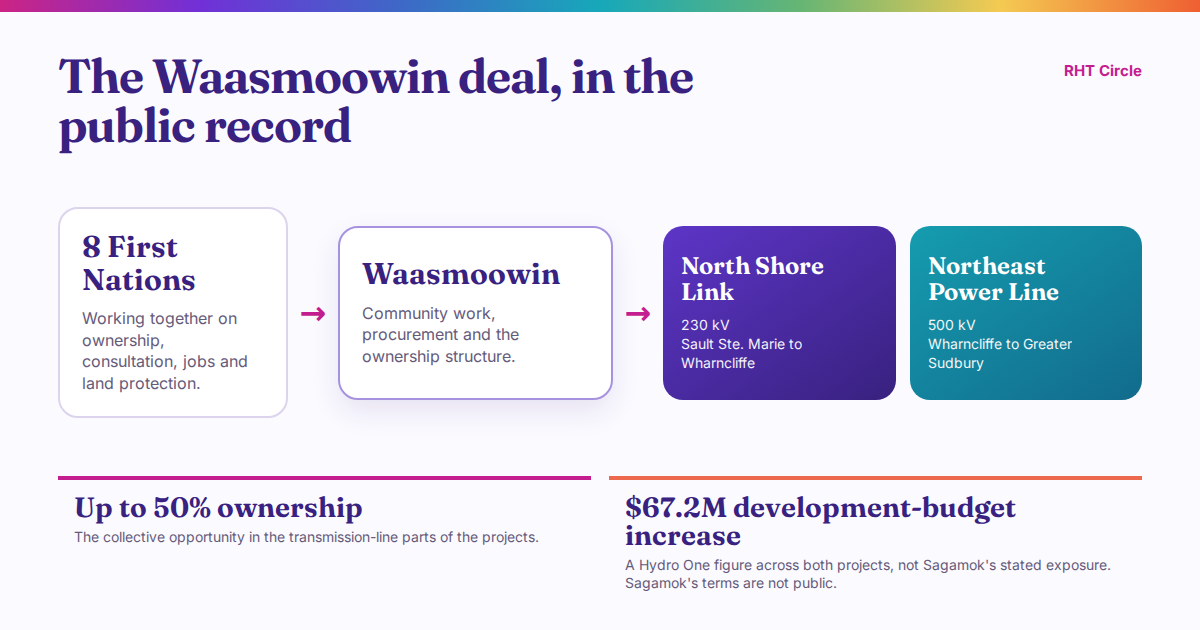
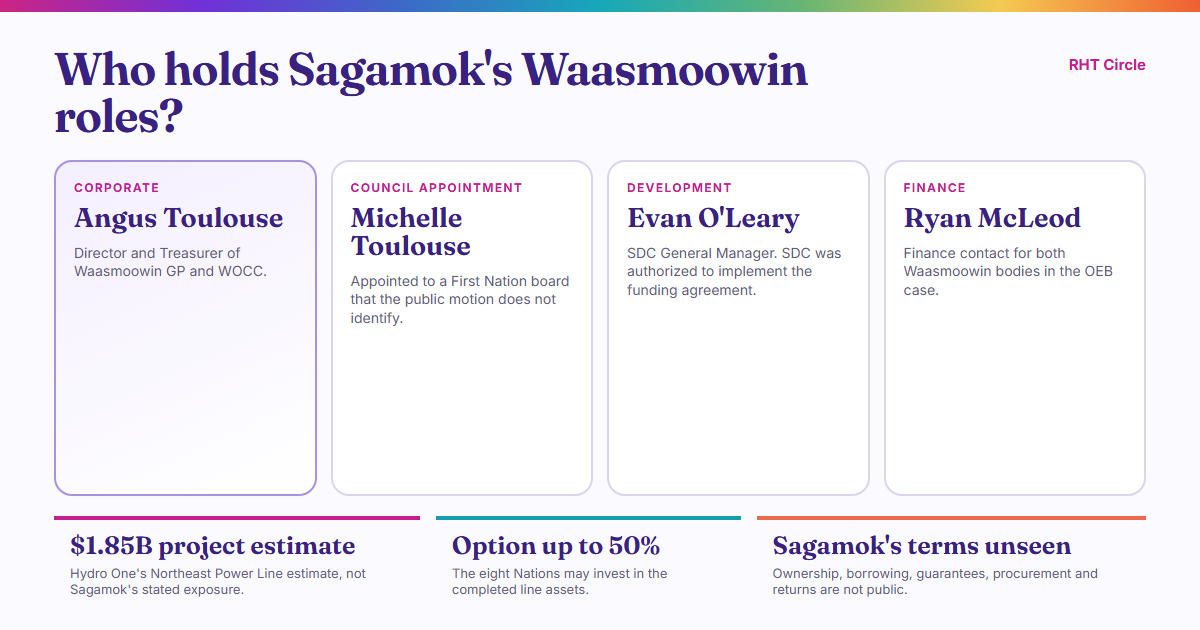
Publish sourced Waasmoowin role map

Changed region(s): [[0.0308, 0.0603, 0.9558, 0.9651], [0.8633, 0.0905, 0.9558, 0.1206]]

diff --git a/scripts/og-template-waasmoowin.html b/scripts/og-template-waasmoowin.html
@@ -12,7 +12,6 @@
       --ink: #201936;
       --muted: #655b7a;
       --indigo: #38217f;
-      --violet: #5d35c7;
       --magenta: #c41d8f;
       --cyan: #159caf;
       --coral: #ed694e;
@@ -28,66 +27,65 @@
       font-family: Inter, system-ui, sans-serif;
     }
     .rainbow { height: 12px; background: var(--rainbow); }
-    main { height: 618px; padding: 40px 58px 38px; display: grid; grid-template-rows: auto 1fr auto; gap: 24px; }
+    main { height: 618px; padding: 34px 54px 32px; display: grid; grid-template-rows: auto 1fr auto; gap: 20px; }
     header { display: flex; align-items: start; justify-content: space-between; gap: 30px; }
-    h1 { font: 650 48px/1.02 Fraunces, Georgia, serif; color: var(--indigo); max-width: 760px; letter-spacing: -1px; }
+    h1 { font: 650 46px/1.02 Fraunces, Georgia, serif; color: var(--indigo); max-width: 850px; letter-spacing: -1px; }
     .brand { color: var(--magenta); font-size: 15px; font-weight: 700; padding-top: 9px; }
-    .flow { display: grid; grid-template-columns: 230px 50px 275px 50px 1fr; align-items: center; }
-    .box { min-height: 174px; border: 2px solid var(--line); border-radius: 20px; padding: 22px; background: white; display: flex; flex-direction: column; justify-content: center; }
-    .box strong { font: 650 30px/1.08 Fraunces, Georgia, serif; color: var(--indigo); }
-    .box span { margin-top: 12px; color: var(--muted); font-size: 16px; line-height: 1.35; }
-    .box--centre { border-color: #a792df; box-shadow: 0 12px 28px rgba(56, 33, 127, 0.10); }
-    .projects { display: grid; grid-template-columns: 1fr 1fr; gap: 14px; }
-    .project { min-height: 174px; border-radius: 20px; padding: 22px 18px; color: white; display: flex; flex-direction: column; justify-content: center; }
-    .project:first-child { background: linear-gradient(145deg, var(--violet), var(--indigo)); }
-    .project:last-child { background: linear-gradient(145deg, var(--cyan), #126b8c); }
-    .project strong { font: 650 24px/1.1 Fraunces, Georgia, serif; }
-    .project span { margin-top: 10px; font-size: 14px; line-height: 1.35; opacity: .94; }
-    .arrow { color: var(--magenta); font-size: 32px; text-align: center; font-weight: 700; }
-    footer { display: grid; grid-template-columns: 1fr 1fr; gap: 18px; }
+    .roles { display: grid; grid-template-columns: repeat(4, 1fr); gap: 14px; align-items: stretch; }
+    .role { border: 2px solid var(--line); border-radius: 18px; padding: 20px 18px; background: white; display: flex; flex-direction: column; }
+    .role:first-child { border-color: #a792df; background: linear-gradient(155deg, #f4efff, white); }
+    .role-kicker { color: var(--magenta); font-size: 12px; line-height: 1; font-weight: 700; letter-spacing: 1.3px; text-transform: uppercase; }
+    .role strong { margin-top: 10px; font: 650 27px/1.04 Fraunces, Georgia, serif; color: var(--indigo); }
+    .role span { margin-top: 12px; color: var(--muted); font-size: 14px; line-height: 1.32; }
+    footer { display: grid; grid-template-columns: 1.08fr .9fr 1.15fr; gap: 16px; }
     .fact { border-top: 4px solid var(--magenta); padding: 13px 16px 0; }
+    .fact:nth-child(2) { border-color: var(--cyan); }
     .fact:last-child { border-color: var(--coral); }
-    .fact strong { font: 650 28px/1 Fraunces, Georgia, serif; color: var(--indigo); }
-    .fact p { margin-top: 7px; color: var(--muted); font-size: 14px; line-height: 1.3; }
+    .fact strong { font: 650 25px/1 Fraunces, Georgia, serif; color: var(--indigo); }
+    .fact p { margin-top: 7px; color: var(--muted); font-size: 13px; line-height: 1.28; }
   </style>
 </head>
 <body>
   <div class="rainbow"></div>
   <main>
     <header>
-      <h1>The Waasmoowin deal, in the public record</h1>
+      <h1>Who holds Sagamok's Waasmoowin roles?</h1>
       <div class="brand">RHT Circle</div>
     </header>
-    <section class="flow" aria-label="Eight Nations working through Waasmoowin on two transmission lines">
-      <div class="box">
-        <strong>8 First Nations</strong>
-        <span>Working together on ownership, consultation, jobs and land protection.</span>
+    <section class="roles" aria-label="Four named Sagamok role lanes in the Waasmoowin project">
+      <div class="role">
+        <div class="role-kicker">Corporate</div>
+        <strong>Angus Toulouse</strong>
+        <span>Director and Treasurer of Waasmoowin GP and WOCC.</span>
       </div>
-      <div class="arrow">→</div>
-      <div class="box box--centre">
-        <strong>Waasmoowin</strong>
-        <span>Community work, procurement and the ownership structure.</span>
+      <div class="role">
+        <div class="role-kicker">Council appointment</div>
+        <strong>Michelle Toulouse</strong>
+        <span>Appointed to a First Nation board that the public motion does not identify.</span>
       </div>
-      <div class="arrow">→</div>
-      <div class="projects">
-        <div class="project">
-          <strong>North Shore Link</strong>
-          <span>230 kV<br>Sault Ste. Marie to Wharncliffe</span>
-        </div>
-        <div class="project">
-          <strong>Northeast Power Line</strong>
-          <span>500 kV<br>Wharncliffe to Greater Sudbury</span>
-        </div>
+      <div class="role">
+        <div class="role-kicker">Development</div>
+        <strong>Evan O'Leary</strong>
+        <span>SDC General Manager. SDC was authorized to implement the funding agreement.</span>
+      </div>
+      <div class="role">
+        <div class="role-kicker">Finance</div>
+        <strong>Ryan McLeod</strong>
+        <span>Finance contact for both Waasmoowin bodies in the OEB case.</span>
       </div>
     </section>
     <footer>
       <div class="fact">
-        <strong>Up to 50% ownership</strong>
-        <p>The collective opportunity in the transmission-line parts of the projects.</p>
+        <strong>$1.85B project estimate</strong>
+        <p>Hydro One's Northeast Power Line estimate, not Sagamok's stated exposure.</p>
       </div>
       <div class="fact">
-        <strong>$67.2M development-budget increase</strong>
-        <p>A Hydro One figure across both projects, not Sagamok's stated exposure. Sagamok's terms are not public.</p>
+        <strong>Option up to 50%</strong>
+        <p>The eight Nations may invest in the completed line assets.</p>
+      </div>
+      <div class="fact">
+        <strong>Sagamok's terms unseen</strong>
+        <p>Ownership, borrowing, guarantees, procurement and returns are not public.</p>
       </div>
     </footer>
   </main>

diff --git a/src/Cms/ArticleSeedData.php b/src/Cms/ArticleSeedData.php
@@ -8,7 +8,8 @@ namespace App\Cms;
  * One-time bootstrap metadata for managed RHT Circle articles.
  *
  * The long-form HTML is read from resources/content/article-seeds/*.html.twig.
- * Once a slug exists in the CMS, the seeder never updates it.
+ * Once a slug exists in the CMS, the seeder leaves it untouched unless the
+ * slug is explicitly named for a controlled publication or metadata refresh.
  */
 final class ArticleSeedData
 {
@@ -42,6 +43,31 @@ final class ArticleSeedData
                 'hero_caption' => 'The Trespass draft is already written. The replacement Membership Law draft has not been released.',
                 'promote' => true,
                 'sticky' => true,
+            ]),
+            self::withBlocks($projectRoot, [
+                'slug' => 'waasmoowin-deal-public-record',
+                'title' => "Who holds Sagamok's Waasmoowin roles?",
+                'community_slug' => 'sagamok',
+                'kicker' => 'Analysis | Sagamok',
+                'deck' => 'Waasmoowin puts eight First Nations into two Hydro One transmission projects. Four Sagamok role lanes are visible. The Nation\'s terms are not.',
+                'summary' => 'What Waasmoowin is, who carries Sagamok\'s work and which ownership, borrowing and procurement terms remain unseen.',
+                'author' => 'Russell Jones',
+                'date_display' => 'July 27, 2026',
+                'date_iso' => '2026-07-27',
+                'section' => 'RHT Circle analysis',
+                'action_label' => 'Read the analysis',
+                'og_description' => 'What Waasmoowin is, who carries Sagamok\'s work and which ownership, borrowing and procurement terms remain unseen.',
+                'social_image' => 'https://rhtcircle.ca/images/news/waasmoowin/waasmoowin-public-record.png',
+                'social_image_alt' => 'Role map identifying Angus Toulouse, Michelle Toulouse, Evan O\'Leary and Ryan McLeod in Sagamok\'s Waasmoowin work.',
+                'social_image_width' => 1200,
+                'social_image_height' => 630,
+                'hero_src' => '/images/news/waasmoowin/waasmoowin-public-record.png',
+                'hero_width' => 1200,
+                'hero_height' => 630,
+                'hero_alt' => 'Role map identifying Angus Toulouse, Michelle Toulouse, Evan O\'Leary and Ryan McLeod in Sagamok\'s Waasmoowin work.',
+                'hero_caption' => 'The public record identifies four Sagamok role lanes. The five SDC directors provide separate corporate oversight.',
+                'promote' => false,
+                'sticky' => false,
             ]),
             self::withBlocks($projectRoot, [
                 'slug' => 'inside-sagamoks-gr-truss-deal',
@@ -102,6 +128,16 @@ final class ArticleSeedData
      * @return list<string>
      */
     public static function unpublishedSlugs(): array
+    {
+        return [];
+    }
+
+    /**
+     * Existing records intentionally republished from their reviewed source.
+     *
+     * @return list<string>
+     */
+    public static function publicationRefreshSlugs(): array
     {
         return ['waasmoowin-deal-public-record'];
     }

diff --git a/src/Cms/ArticleSeeder.php b/src/Cms/ArticleSeeder.php
@@ -11,8 +11,9 @@ use Waaseyaa\Node\NodeType;
 /**
  * Creates the article bundle and missing migrated articles.
  *
- * Existing slugs are deliberately left untouched. CMS edits and revisions are
- * authoritative after the initial conversion.
+ * Existing slugs are deliberately left untouched unless ArticleSeedData names
+ * one for a controlled publication or metadata refresh. CMS edits and
+ * revisions remain authoritative for every other article.
  */
 final class ArticleSeeder
 {
@@ -23,7 +24,7 @@ final class ArticleSeeder
     ) {}
 
     /**
-     * @return array{created: int, skipped: int, unpublished: int, refreshed: int}
+     * @return array{created: int, skipped: int, unpublished: int, published: int, refreshed: int}
      */
     public function seed(): array
     {
@@ -65,6 +66,40 @@ final class ArticleSeeder
             $node->setRevisionLog('Unpublished by editorial direction.');
             $this->nodes->save($node);
             $unpublished++;
+        }
+
+        $published = 0;
+        foreach (ArticleSeedData::publicationRefreshSlugs() as $slug) {
+            $node = $existing[$slug] ?? null;
+            $article = $articlesBySlug[$slug] ?? null;
+            if ($node === null || $article === null) {
+                continue;
+            }
+
+            $changed = false;
+            foreach ($article as $field => $value) {
+                if ($node->get($field) === $value) {
+                    continue;
+                }
+                $node->set($field, $value);
+                $changed = true;
+            }
+
+            $unpublishedRows = $this->nodes->findBy([
+                'type' => ArticleFields::BUNDLE,
+                'slug' => $slug,
+                'status' => false,
+            ], limit: 1);
+            if (isset($unpublishedRows[0])) {
+                $node->set('status', true);
+                $changed = true;
+            }
+
+            if ($changed) {
+                $node->setRevisionLog('Republished after editorial review and source update.');
+                $this->nodes->save($node);
+                $published++;
+            }
         }
 
         $refreshed = 0;
@@ -123,6 +158,7 @@ final class ArticleSeeder
             'created' => $created,
             'skipped' => $skipped,
             'unpublished' => $unpublished,
+            'published' => $published,
             'refreshed' => $refreshed,
         ];
     }

diff --git a/tests/Unit/Content/NewsFeedTest.php b/tests/Unit/Content/NewsFeedTest.php
@@ -76,19 +76,20 @@ final class NewsFeedTest extends TestCase
         );
 
         self::assertSame(['start-here', 'follow-the-record', 'member-tools'], array_column($groups, 'id'));
-        self::assertSame(19, array_sum(array_map(
+        self::assertSame(20, array_sum(array_map(
             static fn (array $group): int => count($group['cards']),
             $groups,
         )));
     }
 
-    public function testPublicationSeedsReplaceUnpublishedWaasmoowinArticleWithWindigoKaanCommentary(): void
+    public function testPublicationSeedsTrackPublishedAndRefreshedArticles(): void
     {
         $seeds = ArticleSeedData::all(\dirname(__DIR__, 3));
 
         self::assertContains('aging-well-starts-before-long-term-care', array_column($seeds, 'slug'));
-        self::assertNotContains('waasmoowin-deal-public-record', array_column($seeds, 'slug'));
-        self::assertContains('waasmoowin-deal-public-record', ArticleSeedData::unpublishedSlugs());
+        self::assertContains('waasmoowin-deal-public-record', array_column($seeds, 'slug'));
+        self::assertNotContains('waasmoowin-deal-public-record', ArticleSeedData::unpublishedSlugs());
+        self::assertContains('waasmoowin-deal-public-record', ArticleSeedData::publicationRefreshSlugs());
         self::assertContains('aging-well-starts-before-long-term-care', ArticleSeedData::metadataRefreshSlugs());
     }
 }

diff --git a/src/Content/LandProjects.php b/src/Content/LandProjects.php
@@ -135,6 +135,7 @@ HTML,
 <p>These are Hydro One development budgets. They are not the total project costs, the price of the First Nations' ownership interests or Sagamok's stated exposure. The signed financing and cost-sharing agreements are needed to show whether any part of the increase can reach the partner Nations.</p>
 <h3>What members still need</h3>
 <p>The public record does not show how much each Nation may borrow or contribute, the security for that money, how cost increases are divided, how jobs and contracts are allocated, or how ownership income will reach members. Those answers belong in the signed Cooperation and Support Agreement, capacity-funding agreement, partnership agreements, financing terms and procurement rules.</p>
+<p><a href="/news/waasmoowin-deal-public-record">Read the full analysis of Sagamok's Waasmoowin roles and the records that remain unavailable.</a></p>
 HTML,
                 'caveat' => 'Capacities, costs and the construction timeline are point-in-time public facts. The reported development budgets are Hydro One figures, not Sagamok liabilities. The dollar amount and financing terms of each Nation\'s stake are not public.',
                 'related' => [

diff --git a/src/Content/CommunityHub.php b/src/Content/CommunityHub.php
@@ -129,6 +129,14 @@ final class CommunityHub
             ],
             [
                 'feature' => true,
+                'tag' => 'RHT Circle analysis',
+                'title' => 'Who holds Sagamok\'s Waasmoowin roles?',
+                'desc' => 'The public record identifies four Sagamok role lanes. The Nation\'s ownership, borrowing, procurement and return terms remain unseen.',
+                'go' => 'Read the analysis',
+                'href' => '/news/waasmoowin-deal-public-record',
+            ],
+            [
+                'feature' => true,
                 'tag' => 'RHT Circle investigation',
                 'title' => 'Inside Sagamok\'s GR Truss deal',
                 'desc' => 'A $100 purchase, $900,000 in Council approvals and one unanswered repayment question.',

diff --git a/src/Provider/CmsContentServiceProvider.php b/src/Provider/CmsContentServiceProvider.php
@@ -142,10 +142,11 @@ final class CmsContentServiceProvider extends ServiceProvider implements Provide
                     $this->projectRoot,
                 )->seed();
                 $io->writeln(sprintf(
-                    'article: %d created; %d existing CMS records left unchanged; %d unpublished; %d metadata refreshed.',
+                    'article: %d created; %d existing CMS records left unchanged; %d unpublished; %d publication refreshed; %d metadata refreshed.',
                     $result['created'],
                     $result['skipped'],
                     $result['unpublished'],
+                    $result['published'],
                     $result['refreshed'],
                 ));
 

diff --git a/tests/Unit/Rendering/SiteRendererTest.php b/tests/Unit/Rendering/SiteRendererTest.php
@@ -110,7 +110,7 @@ final class SiteRendererTest extends TestCase
         self::assertStringContainsString('id="start-here"', $html);
         self::assertStringContainsString('id="follow-the-record"', $html);
         self::assertStringContainsString('id="member-tools"', $html);
-        self::assertSame(19, substr_count($html, '<a class="tile-card'));
+        self::assertSame(20, substr_count($html, '<a class="tile-card'));
         self::assertStringContainsString('Back to the Sagamok community page', $html);
         self::assertMatchesRegularExpression(
             '~<main id="main">\s*<div class="wrap wrap--wide">~',

diff --git a/src/Content/SagamokAccountabilityHub.php b/src/Content/SagamokAccountabilityHub.php
@@ -32,6 +32,7 @@ final class SagamokAccountabilityHub
             'intro' => 'Worked examples drawn from public records, organized by the decision or system members are trying to understand.',
             'hrefs' => [
                 '/news/sagamok-membership-before-trespass',
+                '/news/waasmoowin-deal-public-record',
                 '/news/inside-sagamoks-gr-truss-deal',
                 '/communities/sagamok/gr-truss',
                 '/communities/sagamok/one-seat-one-salary',
